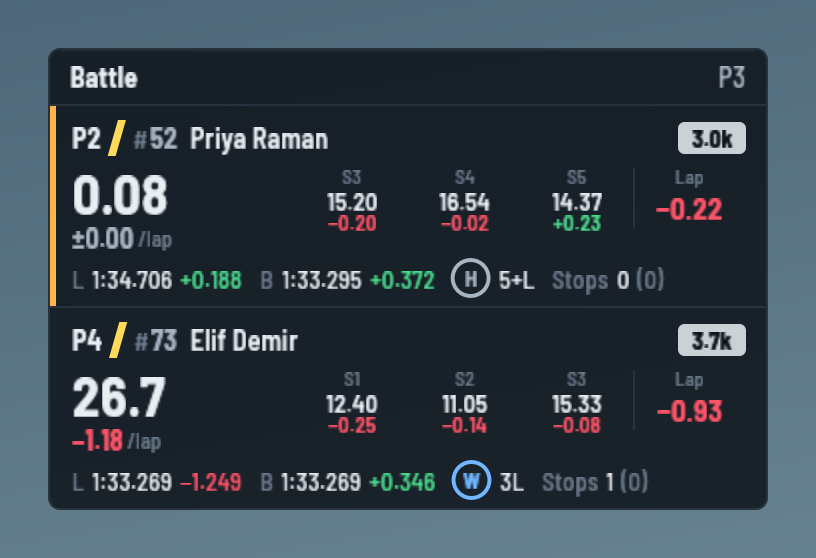
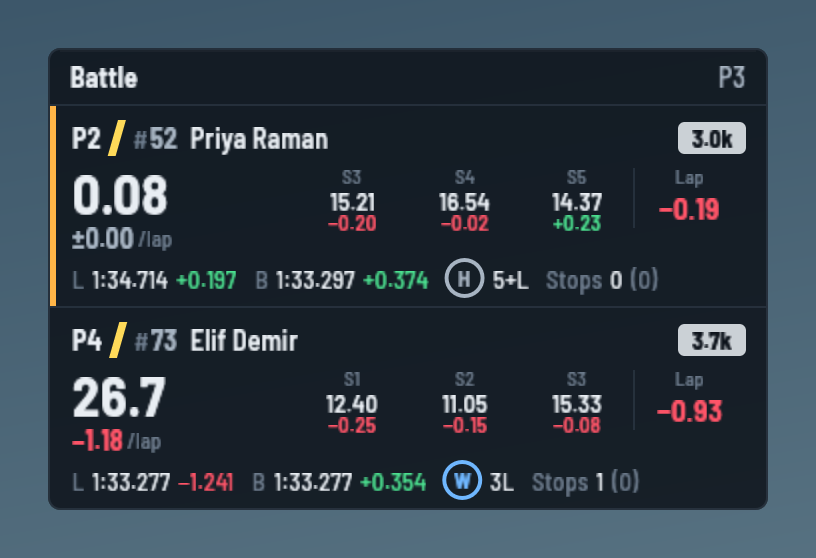
Battle: ahead and behind follow the race live
The cars compared are picked ten times a second from everyone's race gap to
you (the Relative's live gap on track plus whole laps), not from iRacing's
class positions, which only change at timing lines. After an overtake the
panel switches to the new neighbours at once, with live positions; every
car's lap-start gap is kept so Lap works for whoever you end up next to.
A demo-race test checks the live order agrees with iRacing's away from the
line and that the gap ahead never jumps.

Claude-Session: https://claude.ai/code/session_013hzfFXxra7Gh1adzFYjA4b

diff --git a/app/src/widgets/battle.rs b/app/src/widgets/battle.rs
@@ -1,5 +1,7 @@
 //! Battle (`src/widgets/Battle.tsx`): the cars directly ahead of and behind you
-//! in your class (ahead on top). For each, the gap now, how much it changes per
+//! in your class right now (ahead on top), from where everyone is on track ten
+//! times a second, so an overtake swaps who's compared straight away instead of
+//! when iRacing's positions next update at a timing line. For each, the gap now, how much it changes per
 //! lap, their times through the last three sectors and how much the gap has
 //! changed so far this lap, their last and best laps against yours, their tyres
 //! and stops. Only what the timing shows: no predictions.
@@ -7,7 +9,7 @@
 use std::collections::HashMap;
 
 use egui::{Align, Align2, Painter, Pos2, Rangef, Rect, Stroke, Vec2};
-use telemetry::model::StandingRow;
+use telemetry::model::{FieldPayload, StandingRow};
 use telemetry::stints::CarStints;
 
 use super::{Ctx, Widget};
@@ -57,6 +59,10 @@ struct Shared<'a> {
     show_tyres: bool,
     /// Where each sector starts, as a fraction of the lap.
     sector_starts: &'a [f32],
+    /// A lap's time, to count whole laps between cars.
+    pace: f32,
+    /// Your class position right now.
+    my_pos: i32,
 }
 
 impl Widget for Battle {
@@ -69,7 +75,8 @@ impl Widget for Battle {
         let track = live.session.as_ref().map(|s| s.track_name.as_str()).unwrap_or("");
         self.history.push_field(field, tick.session_time, &format!("{track}|{}", field.clock.session_type));
         if let Some(me) = field.standings.iter().find(|r| r.is_player) {
-            self.lap_mark(me, &field.standings);
+            let gaps = race_gaps(field, me);
+            self.lap_mark(me, &gaps);
         }
     }
 
@@ -88,11 +95,13 @@ impl Widget for Battle {
             return panel.finish(p, th, bottom);
         };
 
-        let mut cls: Vec<&StandingRow> = rows.iter().filter(|r| r.driver.class_id == me.driver.class_id && r.position > 0).collect();
-        cls.sort_by_key(|r| r.class_position);
-        let at = cls.iter().position(|r| r.is_player);
-        let ahead = at.filter(|a| *a > 0).map(|a| cls[a - 1]);
-        let behind = at.filter(|a| a + 1 < cls.len()).map(|a| cls[a + 1]);
+        // Who's directly ahead and behind in class right now, by the live race gap to you.
+        let gaps = race_gaps(field, me);
+        let class_cars = || rows.iter().filter(|r| !r.is_player && r.driver.class_id == me.driver.class_id).filter_map(|r| Some((r, *gaps.get(&r.driver.car_idx)?)));
+        let ahead = class_cars().filter(|(_, g)| *g > 0.0).min_by(|a, b| a.1.total_cmp(&b.1));
+        let behind = class_cars().filter(|(_, g)| *g <= 0.0).max_by(|a, b| a.1.total_cmp(&b.1));
+        // Your class position right now: one more than the cars ahead of you.
+        let my_pos = if gaps.is_empty() { me.class_position } else { 1 + class_cars().filter(|(_, g)| *g > 0.0).count() as i32 };
 
         let o = cx.o;
         let shared = Shared {
@@ -107,12 +116,19 @@ impl Widget for Battle {
             show_laps: o.b("showLaps"),
             show_tyres: o.b("showTyres"),
             sector_starts: cx.live.session.as_ref().map(|s| s.sectors.as_slice()).unwrap_or(&[]),
+            pace: lap_pace(me),
+            my_pos,
         };
 
-        let aside: Vec<_> = if me.class_position > 0 { vec![seg(format!("P{}", me.class_position), kit::aside_font(th), th.ink2)] } else { Vec::new() };
+        let aside: Vec<_> = if my_pos > 0 { vec![seg(format!("P{my_pos}"), kit::aside_font(th), th.ink2)] } else { Vec::new() };
         let panel = kit::Panel::begin(p, th, W, Some("Battle"), &aside);
         let mut y = panel.body_top;
         for (k, (side, car)) in [(Side::Ahead, ahead), (Side::Behind, behind)].into_iter().enumerate() {
+            let pos = match side {
+                Side::Ahead => my_pos - 1,
+                Side::Behind => my_pos + 1,
+            };
+            let car = car.map(|(r, g)| (r, g, pos));
             if k > 0 {
                 p.hline(panel.x(), y + 0.5, Stroke::new(1.0, th.line));
                 y += 1.0;
@@ -123,10 +139,52 @@ impl Widget for Battle {
     }
 }
 
-/// A car's gap to you on track: seconds, positive when it's behind you.
-fn gap_to_me(car: &StandingRow, me: &StandingRow) -> Option<f32> {
-    let live = |r: &StandingRow| if r.class_position == 1 { Some(0.0) } else { r.live_gap };
-    Some(live(car)? - live(me)?)
+/// A lap's time for counting laps between cars: your best, else your last, else none.
+fn lap_pace(me: &StandingRow) -> f32 {
+    me.laps.best_lap.or(me.laps.last_lap).filter(|t| *t > 1.0).unwrap_or(0.0)
+}
+
+/// Every car's race gap to you right now, by car: seconds, positive when it's ahead of you in the
+/// race, including whole laps. From the Relative's live gap on track (time, both ways round to
+/// half a lap) plus the laps between you; past a lap either way, the lap counts come from where
+/// each car is in the race. Cars not on track (in the garage, not yet joined) have none.
+fn race_gaps(field: &FieldPayload, me: &StandingRow) -> HashMap<i32, f32> {
+    let pace = lap_pace(me);
+    let mine = me.lap as f32 + me.lap_pct.max(0.0);
+    let by_car: HashMap<i32, &StandingRow> = field.standings.iter().map(|r| (r.driver.car_idx, r)).collect();
+    field
+        .relative
+        .iter()
+        .filter(|r| !r.is_player && r.status != telemetry::model::CarStatus::Out)
+        .filter_map(|r| {
+            let row = by_car.get(&r.driver.car_idx)?;
+            if row.lap_pct < 0.0 {
+                return None;
+            }
+            // Where they are on track from you, as a fraction of a lap (±half), the way the
+            // Relative counts its whole laps (`lap_status`, one either way) from.
+            let mut on_track = row.lap_pct - me.lap_pct;
+            on_track -= on_track.round();
+            // The Relative's time gap wraps at half a lap by time rather than distance: near half a
+            // lap apart the two can disagree, so put the time on the same side as the distance.
+            let mut gap = r.gap;
+            if pace > 1.0 {
+                if on_track > 0.0 && gap < 0.0 {
+                    gap += pace;
+                } else if on_track < 0.0 && gap > 0.0 {
+                    gap -= pace;
+                }
+            }
+            // Past a lap either way, whole laps from race progress.
+            let laps = if r.lap_status.abs() < 1 || pace <= 1.0 {
+                r.lap_status as f32
+            } else {
+                let theirs = row.lap as f32 + row.lap_pct;
+                ((theirs - mine) - on_track).round()
+            };
+            Some((r.driver.car_idx, gap + laps * pace))
+        })
+        .collect()
 }
 
 /// The sector a lap fraction is in, given where each sector starts.
@@ -145,45 +203,39 @@ fn latest_sectors(n: usize, current: usize) -> Vec<usize> {
 
 impl Battle {
     /// When your lap changes, remembers every car's gap to you, to measure this lap's change from.
-    fn lap_mark(&mut self, me: &StandingRow, rows: &[StandingRow]) {
-        if me.lap <= 0 || self.my_lap == Some(me.lap) {
+    /// When your lap changes, remembers every car's gap to you, to measure this lap's change from.
+    /// A car that wasn't on track then gets its first gap once it is.
+    fn lap_mark(&mut self, me: &StandingRow, gaps: &HashMap<i32, f32>) {
+        if me.lap <= 0 {
             return;
         }
-        self.my_lap = Some(me.lap);
-        self.lap_start = rows.iter().filter(|r| !r.is_player).filter_map(|r| Some((r.driver.car_idx, gap_to_me(r, me)?))).collect();
+        if self.my_lap != Some(me.lap) {
+            self.my_lap = Some(me.lap);
+            self.lap_start.clear();
+        }
+        for (car, g) in gaps {
+            self.lap_start.entry(*car).or_insert(-g);
+        }
     }
 
-    /// How much the gap to `car` has changed since your lap began: seconds, positive when you
-    /// gained on it (like a sector difference: their time minus yours).
-    fn lap_change(&self, car: &StandingRow, me: &StandingRow) -> Option<f32> {
+    /// How much the gap to the car has changed since your lap began, from its race gap `now`:
+    /// seconds, positive when you gained on it (like a sector difference: their time minus yours).
+    fn lap_change(&self, car: &StandingRow, now: f32) -> Option<f32> {
         let start = self.lap_start.get(&car.driver.car_idx)?;
-        let d = gap_to_me(car, me)? - start;
+        let d = -now - start;
         (d.abs() < LAP_CHANGE_MAX).then_some(d)
     }
 
     /// One section from `top`; returns its height.
     #[allow(clippy::too_many_arguments)]
-    fn opponent(&self, p: &Painter, th: &Theme, panel: &kit::Panel, top: f32, side: Side, car: Option<&StandingRow>, s: &Shared) -> f32 {
-        let Some(car) = car else { return 30.0 };
+    fn opponent(&self, p: &Painter, th: &Theme, panel: &kit::Panel, top: f32, side: Side, car: Option<(&StandingRow, f32, i32)>, s: &Shared) -> f32 {
+        let Some((car, race_gap, live_pos)) = car else { return 30.0 };
         let me = s.me;
 
-        // The gap now: on the same lap, from where the cars are on track (live, like the Relative);
-        // otherwise, or when either isn't on track, from iRacing's timing.
-        let g = |r: &StandingRow| if r.class_position == 1 { Some(0.0) } else { r.gap };
-        let live = |r: &StandingRow| if r.class_position == 1 { Some(0.0) } else { r.live_gap };
-        // Laps apart: from the live gaps when there are both (the lap counters tick a moment after
-        // the line, which made a car crossing it look a lap away), else from the lap counters.
-        // (At your best lap's pace: your last lap may have been a stop.)
-        let pace = me.laps.best_lap.or(me.laps.last_lap).unwrap_or(0.0);
-        let laps_apart = match (live(car), live(me)) {
-            (Some(a), Some(b)) if pace > 1.0 => ((a - b).abs() / pace).floor() as i32,
-            _ => laps_between(Place::from(car), Place::from(me)),
-        };
-        let gap_now = match (live(car), live(me), g(car), g(me)) {
-            (Some(a), Some(b), _, _) if laps_apart == 0 => Some((a - b).abs()),
-            (_, _, Some(a), Some(b)) => Some((a - b).abs()),
-            _ => None,
-        };
+        // The gap now, live, and whole laps apart (at your best lap's pace: your last lap may have
+        // been a stop). Without a lap time yet, laps from iRacing's lap counters.
+        let laps_apart = if s.pace > 1.0 { (race_gap.abs() / s.pace).floor() as i32 } else { laps_between(Place::from(car), Place::from(me)) };
+        let gap_now = Some(race_gap.abs());
 
         // How the gap changes per lap, from the race history.
         let empty: Vec<f32> = Vec::new();
@@ -232,7 +284,7 @@ impl Battle {
 
         // Who: position, class stripe, number, name, iRating.
         let cy = top + 6.0 + 10.0;
-        let pos = kit::text(p, Pos2::new(left, cy), Align2::LEFT_CENTER, &format!("P{}", car.class_position), th.bold(14.0), th.ink);
+        let pos = kit::text(p, Pos2::new(left, cy), Align2::LEFT_CENTER, &format!("P{}", if s.my_pos > 0 { live_pos } else { car.class_position }), th.bold(14.0), th.ink);
         let stripe_x = pos.right() + 6.0 + 2.0;
         kit::class_bar(p, th, stripe_x, cy, class);
         let num_x = stripe_x + 2.0 + 6.0;
@@ -276,7 +328,7 @@ impl Battle {
             }
         }
         if s.show_sectors {
-            let lap = if laps_apart == 0 { self.lap_change(car, me) } else { None };
+            let lap = if laps_apart == 0 { self.lap_change(car, race_gap) } else { None };
             sectors(p, th, sectors_x, main_top, &shown, &car.sectors, &me.sectors, lap);
         }
 
@@ -396,6 +448,56 @@ fn sector_time(t: f64) -> String {
 #[cfg(test)]
 mod tests {
     use super::*;
+
+    /// The demo race, sampled like the app does (every 0.1 s): the cars picked as ahead and behind
+    /// are the ones iRacing ranks next to you whenever nobody is near a timing line, and their gaps
+    /// move smoothly rather than jumping.
+    #[test]
+    fn opponents_follow_the_race_live() {
+        let mut demo = telemetry::demo::DemoSource::new();
+        let mut engine = telemetry::engine::Engine::new();
+        let (mut agree, mut checked, mut worst_jump) = (0, 0, 0.0f32);
+        let mut last: Option<(i32, f32)> = None;
+        for step in 0..(60 * 60 * 6) {
+            let frame = demo.step(1.0 / 60.0).clone();
+            if let Some(text) = demo.take_session_yaml() {
+                engine.set_session(telemetry::session::parse(&text).unwrap());
+            }
+            engine.tick(&frame);
+            if step % 6 != 0 {
+                continue;
+            }
+            let field = engine.field(&frame);
+            let Some(me) = field.standings.iter().find(|r| r.is_player) else { continue };
+            if me.lap < 2 || lap_pace(me) <= 1.0 {
+                continue;
+            }
+            let gaps = race_gaps(&field, me);
+            let class: Vec<_> = field.standings.iter().filter(|r| !r.is_player && r.driver.class_id == me.driver.class_id).filter_map(|r| Some((r, *gaps.get(&r.driver.car_idx)?))).collect();
+            let ahead = class.iter().filter(|(_, g)| *g > 0.0).min_by(|a, b| a.1.total_cmp(&b.1));
+            // Away from the line (where iRacing's positions lag), every car not side by side with
+            // you (a pass in progress, which iRacing only ranks at the next line) is on the same side
+            // of you as iRacing ranks it.
+            let near_line = |pct: f32| !(0.05..0.95).contains(&pct);
+            if !near_line(me.lap_pct) {
+                for (r, g) in class.iter().filter(|(r, g)| g.abs() > 0.5 && !near_line(r.lap_pct) && r.class_position > 0) {
+                    checked += 1;
+                    if (*g > 0.0) == (r.class_position < me.class_position) {
+                        agree += 1;
+                    }
+                }
+            }
+            if let Some((car, g)) = ahead {
+                if let Some((_, pg)) = last.filter(|(c, _)| *c == car.driver.car_idx) {
+                    worst_jump = worst_jump.max((g - pg).abs());
+                }
+                last = Some((car.driver.car_idx, *g));
+            }
+        }
+        assert!(checked > 100, "only {checked} samples");
+        assert!(agree as f32 >= checked as f32 * 0.98, "live order matched iRacing's in {agree} of {checked}");
+        assert!(worst_jump < 1.0, "the gap ahead jumped by {worst_jump} s in 0.1 s");
+    }
 
     #[test]
     fn the_three_sectors_before_this_one() {

diff --git a/CHANGELOG.md b/CHANGELOG.md
@@ -4,6 +4,10 @@ Each version's section becomes its GitHub release notes, which Tenths shows in
 Settings → About when it offers the update. Add a section like the ones below
 when you bump the version.
 
+## Unreleased
+
+- Battle: the cars ahead and behind are picked live, from where everyone is on track (ten times a second), not from iRacing's positions, which only change as cars cross timing lines. After an overtake the panel compares you with your new neighbours straight away, and the position in its corner and beside each car is the live one too. The Lap figure works for any car you end up next to, since every car's gap at the start of your lap is kept.
+
 ## 0.6.4
 
 - Tenths is now **2Tenths**, with a new icon: ".2", two tenths of a second, the point in the fastest-lap purple. The name shows in the tray, Settings, the installer, the Start menu and Apps. Nothing moves: it installs to the same folder, keeps the same settings, and updates from earlier versions as before (an old "Tenths" Start menu or desktop shortcut is replaced by a "2Tenths" one).

diff --git a/README.md b/README.md
@@ -465,7 +465,12 @@ the empty board stays visible, and whether the blue-flag driver box shows.
 ![Battle widget](docs/widgets/battle.png)
 
 The cars just ahead of and behind you in your class, ahead on top, with your
-class position in the corner. For each car:
+class position in the corner. Who that is follows the race live, from where
+everyone is on track ten times a second: pass someone, or get passed, and the
+panel switches to your new neighbours straight away rather than when iRacing's
+positions next update at a timing line. Every car's gap, laps and sectors are
+kept all along, so the new comparison is complete from the moment it appears.
+For each car:
 
 - the gap now (or how many laps apart), and how much it has changed per lap
   over the last few laps (green when it's going your way: the car ahead coming
